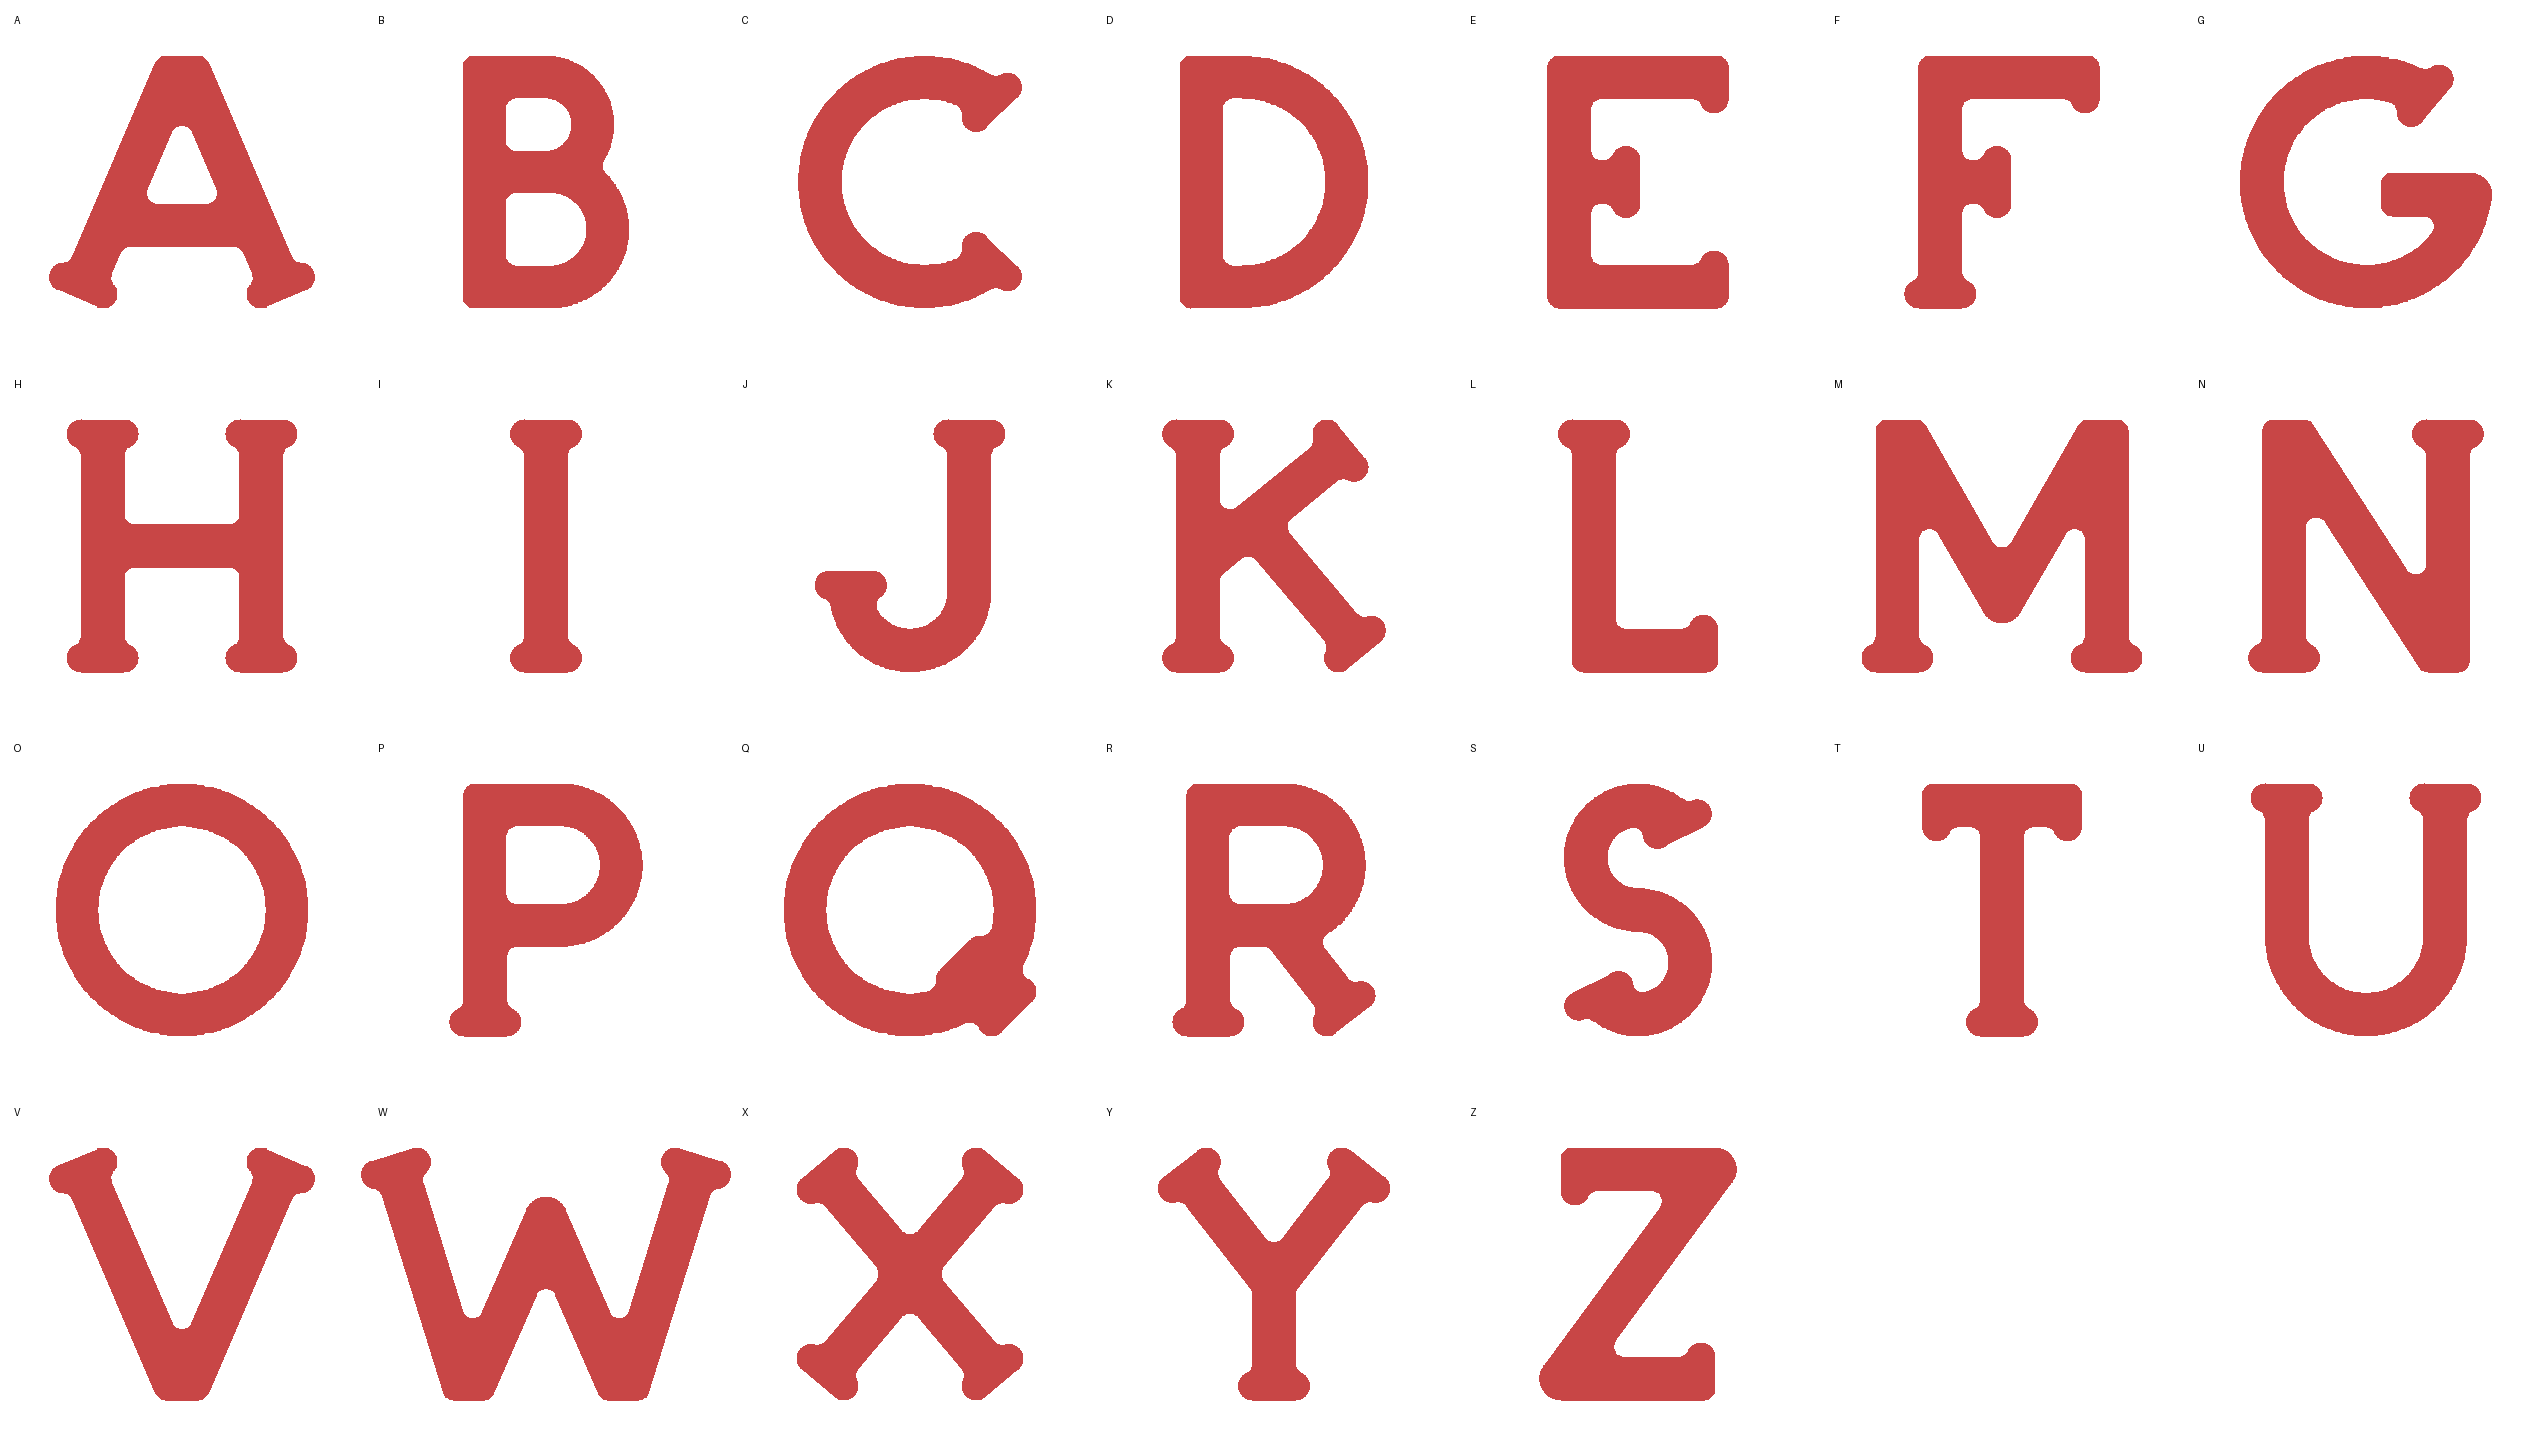
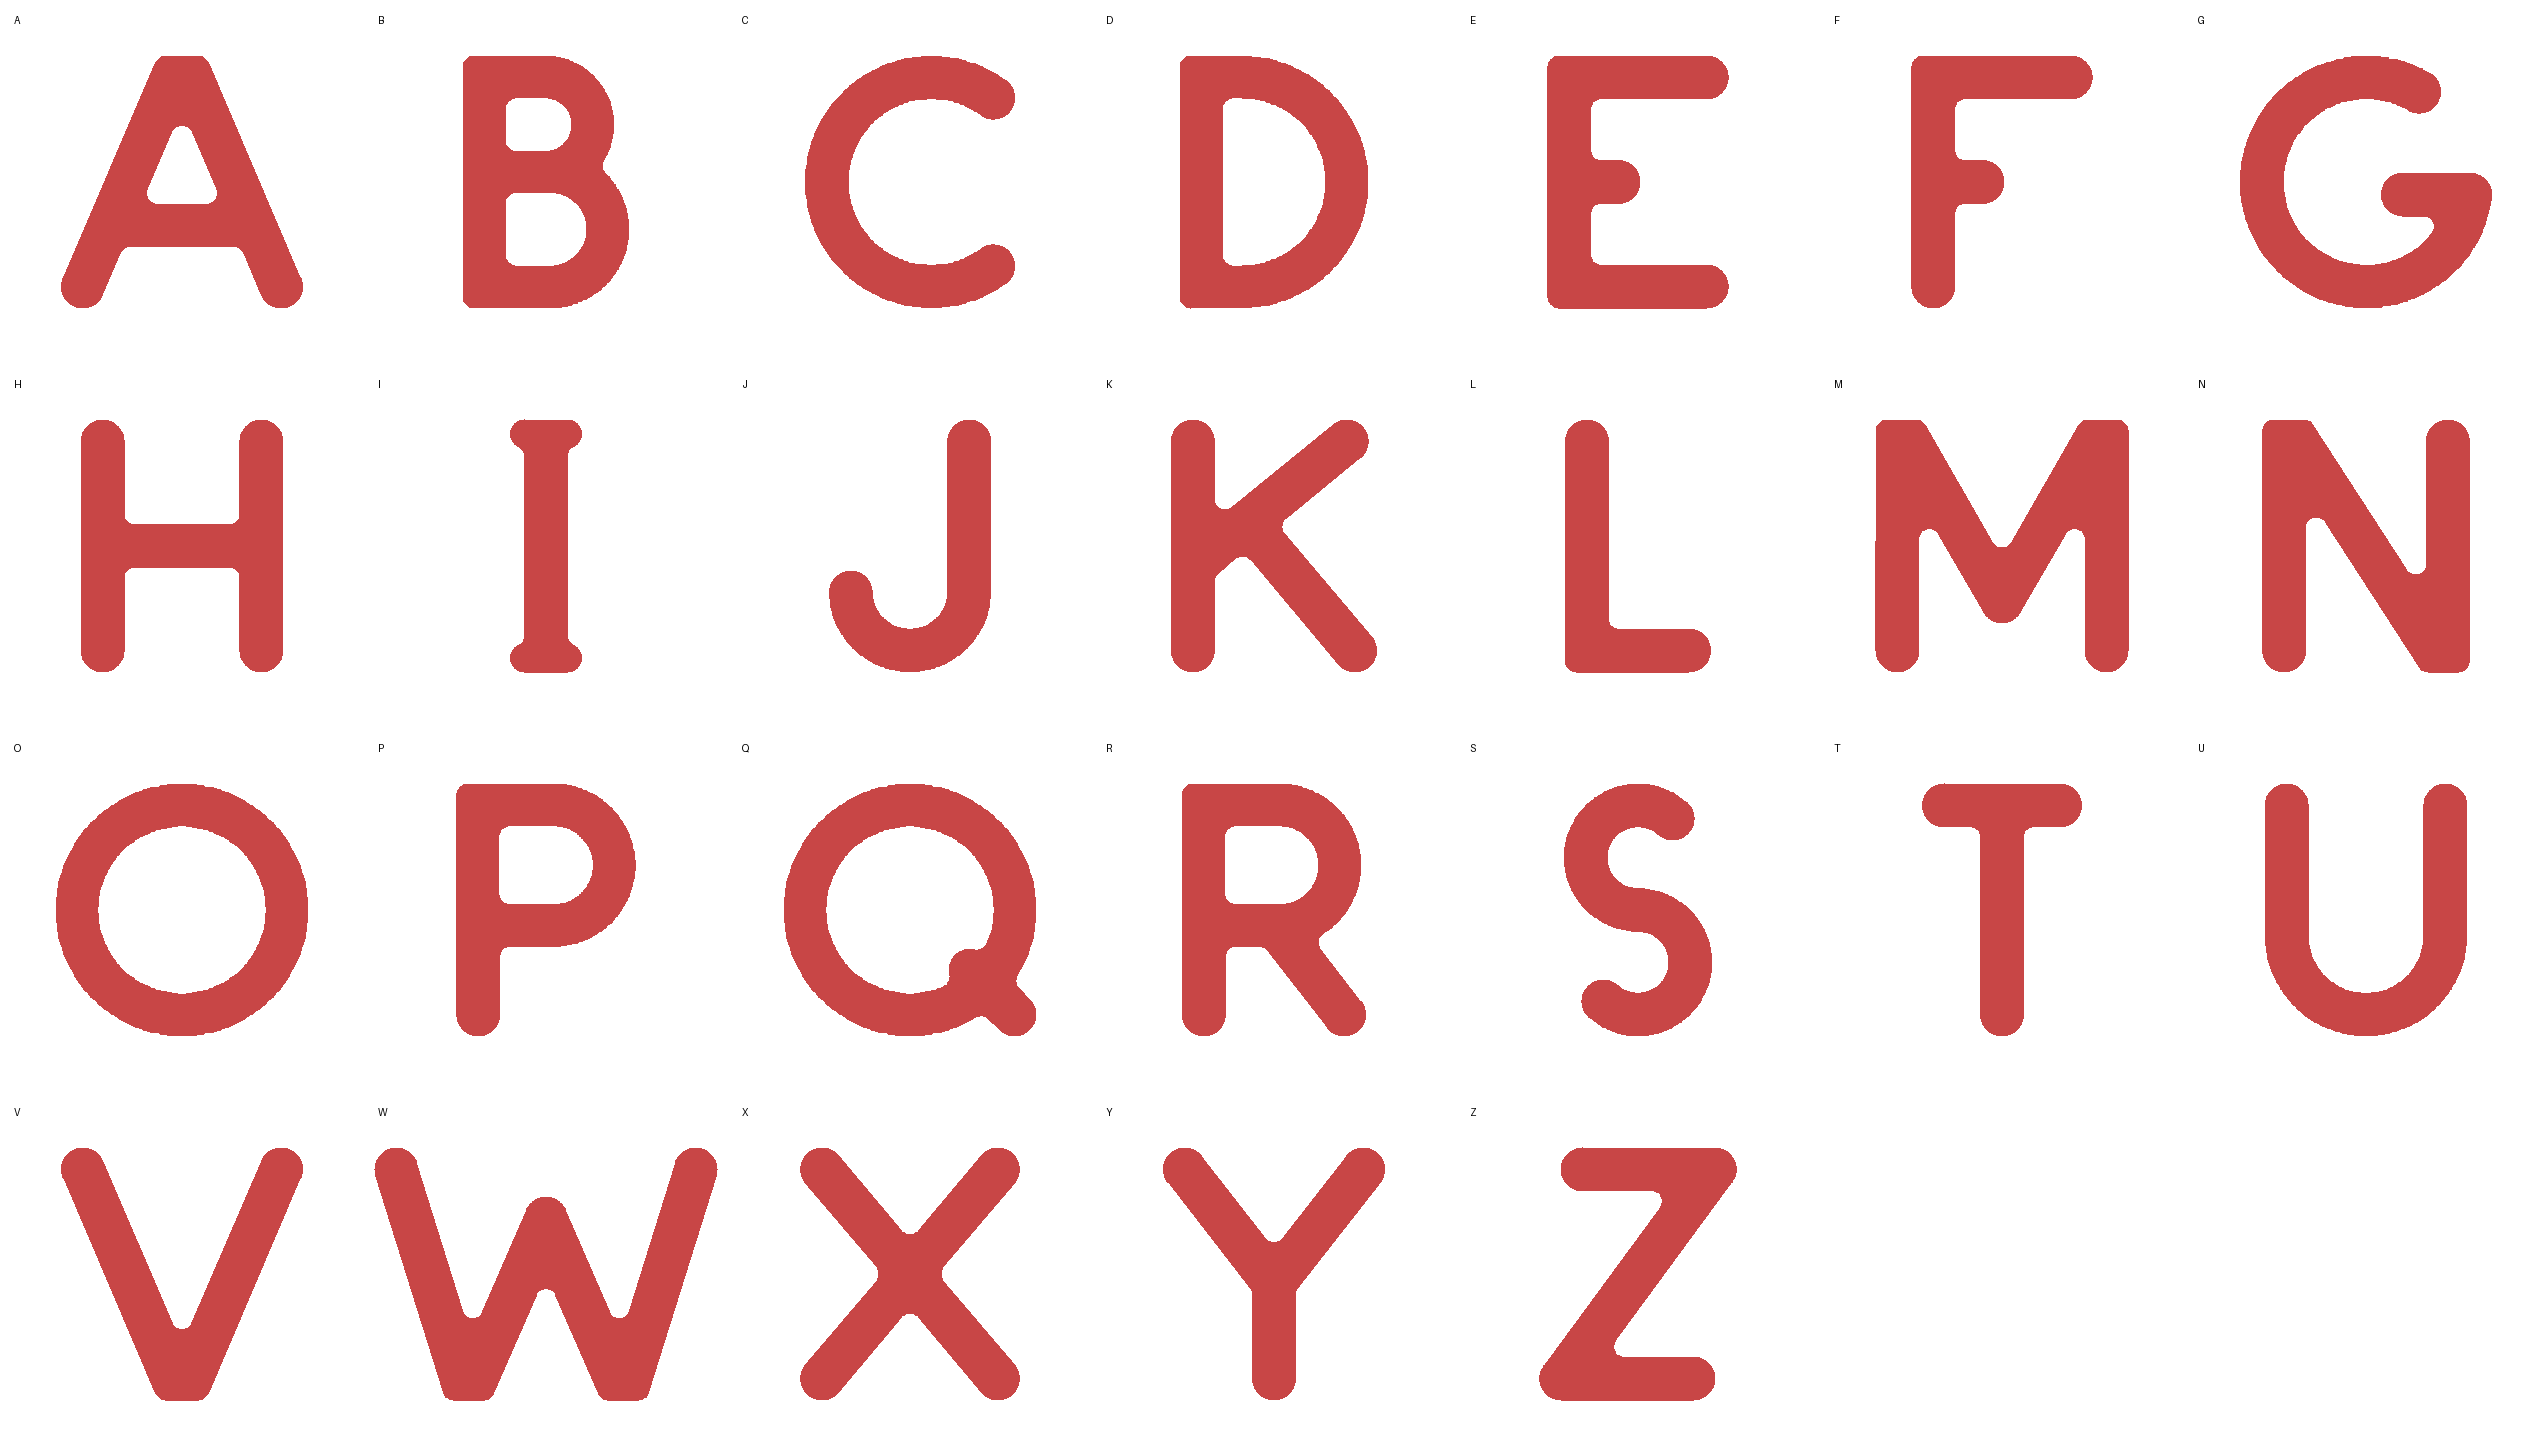
geo font: tab lobes on the I only; every other free end plain round
Alex: keep the serifs on the I only, the rest were fine with rounded stroke
ends. LOBE_LETTERS = {'I'}; other free ends are trimmed half a stroke
width along the stroke (curves too -- a straight step back kinked C/S)
and capped round, baseline/cap-line ends pulled back to just touch the
line. HANDOFF.md updated.

Claude-Session: https://claude.ai/code/session_01UijCLgun3HGSYQiie44R95

diff --git a/jigsawzall/scripts/geo_font.py b/jigsawzall/scripts/geo_font.py
@@ -32,6 +32,7 @@ from shapely.ops import unary_union
 STROKE = 0.17  # stroke width / cap height (3.1mm at an 18mm cap)
 CAP_RATIO = 0.72  # cap height / "font size", like a TrueType face
 SIDE = 0.10  # side bearing each side / cap height
+LOBE_LETTERS = {"I"}  # only these get the tab lobes; every other free end is plain round (Alex)
 SERIF_MM = 2.0  # serif lobe diameter (Alex picked 2mm over 3 and 1.5)
 FILLET_MM = 0.75  # every corner of the outline rounded to this radius
 NOTCH_MIN_MM = 3.0  # a serif bump keeps this much wood to a stroke straight ahead of it
@@ -225,9 +226,34 @@ def glyph_units(ch, serif_mm=None, cap_mm=18.0, stroke=STROKE, fillet_mm=None, l
     # (never cut along the line: a slanted foot cut flat gave A and C unequal
     # inner and outer lobes) and is pulled back along the stroke until its
     # lowest (highest) point just touches the line
+    tabbed = ch in LOBE_LETTERS
     tab_at = {}
     for i, k, p, d, free, on_line in ends:
-        if not (free and on_line):
+        if not free:
+            continue
+        if not tabbed:
+            # plain round end (a round pen): pull the stroke back half its
+            # width so the round end lands where the square end was -- on
+            # the baseline / cap line it just touches the line
+            if on_line:
+                over = -(p[1] - s / 2) if p[1] <= 1e-6 else (p[1] + s / 2) - 1.0
+                t = max(0.0, over) / max(abs(d[1]), 1e-6)
+            else:
+                # mid-air: trim half a stroke width ALONG the stroke (a
+                # straight step back off a curve kinked C's and S's ends)
+                from shapely.ops import substring
+
+                ls = LineString(strokes[i])
+                cut = substring(ls, s / 2, ls.length) if k == 0 else substring(ls, 0, ls.length - s / 2)
+                strokes[i] = [tuple(c) for c in cut.coords]
+                P = strokes[i][k]
+                tab_at[(i, k)] = P
+                continue
+            P = (p[0] - d[0] * t, p[1] - d[1] * t)
+            strokes[i][k] = P
+            tab_at[(i, k)] = P
+            continue
+        if not on_line:
             continue
         shape = unary_union([end_square(p, d)] + [lb for lb, _n in lobes(p, d)])
         over = -shape.bounds[1] if p[1] <= 1e-6 else shape.bounds[3] - 1.0
@@ -259,6 +285,9 @@ def glyph_units(ch, serif_mm=None, cap_mm=18.0, stroke=STROKE, fillet_mm=None, l
         if not free:
             continue
         P = tab_at.get((i, k), p)
+        if not tabbed:
+            serifs.append(Point(P).buffer(s / 2, quad_segs=24))
+            continue
         # a closed ring (Q's bowl) doesn't count: the tail's lobes may touch it
         others = unary_union([pc for j, pc in enumerate(pieces)
                               if j != i and math.dist(strokes[j][0], strokes[j][-1]) > 1e-6])

diff --git a/jigsawzall/HANDOFF.md b/jigsawzall/HANDOFF.md
@@ -65,24 +65,20 @@ and push on `claude/funny-mccarthy-gh3t8s`. Outputs Alex cuts go in
   TrueType outlines.
 - Symmetric letters must be exactly symmetric: mirror (A H I M O T U V W X
   Y), half-turn (N S Z), top/bottom (H I O X). The H crossbar is centred.
-- Serif "lobes": at every free stroke end, a circle on EACH side edge, one
-  radius back from the end, bulging outward. With the stroke as the neck,
-  the end becomes a puzzle-tab bulb. Diameter **2 mm** (`SERIF_MM`; Alex
-  picked 2 over 3 and 1.5).
-- Model each stroke as drawn with a round pen: lobes sit on the stroke's own
-  axis, mirrored about it, at any angle. Slanted ends are cut square to the
-  stroke (not flat along the baseline) and pulled back until they touch the
-  line. On curves, lobes sit on the true edge (offset curve) and are balanced
-  by visible area after rounding.
-- **No balls** and no plain round terminals. Every free end gets the lobe
-  pair, curved ends (C G J S) included.
+- **Serif "lobes" on the I only** (`LOBE_LETTERS = {"I"}`; Alex: "the
+  rest of the letters were fine with rounded stroke ends"). The I's lobes:
+  2 mm (`SERIF_MM`) circles on each side edge one radius back from each
+  end, mirrored about the stroke, so each end is a puzzle-tab bulb.
+- **Every other free stroke end is a plain round end** (round-pen model):
+  trimmed half a stroke width ALONG the stroke (on curves too, or the end
+  kinks) and capped with a half-stroke circle; ends on the baseline/cap
+  line are pulled back so the round end just touches the line. No balls.
 - **Round every corner**, inside and out (`FILLET_MM = 0.75`).
-- Each end gets both lobes or neither, never one. A lobe is dropped only
-  when another stroke is within 3 mm straight ahead of it (`NOTCH_MIN_MM`),
-  where it would pinch the wood (E/F middle bars at larger sizes).
-- Lobes must not create concavities except the natural neck behind the bulb.
+- (Lobe machinery for other letters still exists if LOBE_LETTERS grows:
+  both-or-neither, dropped when a stroke is < 3 mm ahead, balanced by
+  visible area on curves.)
 - Q tail: radial, square across the ring at 45°, from inside the bowl to the
-  baseline. Its lobes may touch the ring.
+  baseline.
 - Specimen: `PYTHONPATH=. python3 scripts/geo_font.py OUT.png`. The current
   sheet is `out/final/geo_font_specimen.png` (2 mm). `glyph_units(ch,
   log=[])` logs every lobe decision.
